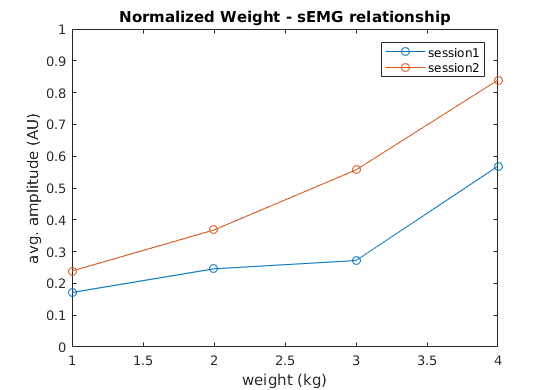
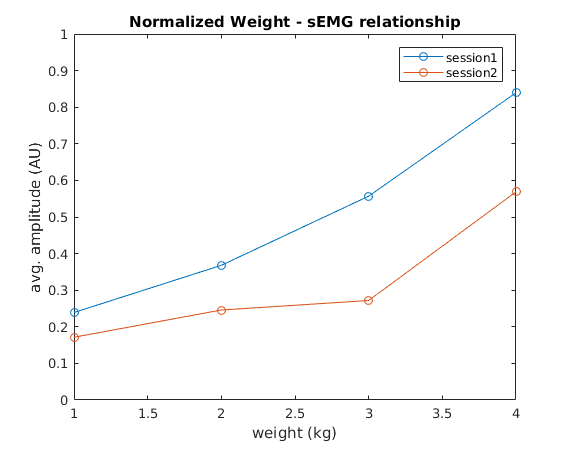
pic

diff --git a/ADC_NI_DAQ/Signal plotting example/plot_reg_multi_test.m b/ADC_NI_DAQ/Signal plotting example/plot_reg_multi_test.m
@@ -10,6 +10,7 @@ filenames = {'1kg_2.lvm', '2kg_2.lvm', '3kg_2.lvm', '4kg_2.lvm'};
 MVC = lvmread(strcat(file_path, 'MVC.lvm'));
 MVC(:, 2) = MVC(:, 2) - mean(MVC(:, 2));
 MVC_mean_amp = mean(abs(MVC(:, 2)));
+disp(MVC_mean_amp);
 
 norm_mean_amps1 = zeros(length(filenames), 1);
 for i =  1:length(filenames)
@@ -44,6 +45,7 @@ filenames = {'1kg.lvm', '2kg.lvm', '3kg_2.lvm', '4kg.lvm'};
 MVC = lvmread(strcat(file_path, 'MVC.lvm'));
 MVC(:, 2) = MVC(:, 2) - mean(MVC(:, 2));
 MVC_mean_amp = mean(abs(MVC(:, 2)));
+disp(MVC_mean_amp);
 
 norm_mean_amps2 = zeros(length(filenames), 1);
 for i =  1:length(filenames)
@@ -67,13 +69,14 @@ legend('session1', 'session2');
 
 %% Find weight constant
 figure;
-plot(norm_mean_amps2./norm_mean_amps1, '-o');
+ratios = norm_mean_amps2./norm_mean_amps1;
+plot(ratios, '-o');
 ylim([0 1]);
 xlim([1 length(filenames)]);
 title("Normalized Ratio accross tests");
 xlabel('weight (kg)');
 ylabel('ratio (AU)');
-weight = mean(norm_mean_amps2./norm_mean_amps1);
+r = mean(ratios);
 norm_mean_amps1 = norm_mean_amps1 * weight;
 
 %% Plot adjusted compare

diff --git a/ADC_NI_DAQ/Signal plotting example/plot_compare_MVC.m b/ADC_NI_DAQ/Signal plotting example/plot_compare_MVC.m
@@ -1,7 +1,8 @@
 clear; close all;
 
-file_path = '/home/dymnz/Documents/sEMG/Signals/2017_8_9/';
-filenames = {'1kg.lvm', '2kg.lvm', '3kg_2.lvm', '4kg.lvm'};
+%% Part 1
+file_path = '/home/dymnz/Documents/sEMG/Signals/2017_8_8/';
+filenames = {'1kg_2.lvm', '2kg_2.lvm', '3kg_2.lvm', '4kg_2.lvm'};
 
 MVC = lvmread(strcat(file_path, 'MVC.lvm'));
 MVC(:, 2) = MVC(:, 2) - mean(MVC(:, 2));
@@ -32,12 +33,12 @@ title("Normalized Weight - sEMG relationship");
 xlabel('weight (kg)');
 ylabel('avg. amplitude (AU)');
 
-
-
 hold on;
 
-file_path = '/home/dymnz/Documents/sEMG/Signals/2017_8_8/';
-filenames = {'1kg_2.lvm', '2kg_2.lvm', '3kg_2.lvm', '4kg_2.lvm'};
+%% Part 2
+file_path = '/home/dymnz/Documents/sEMG/Signals/2017_8_9/';
+filenames = {'1kg.lvm', '2kg.lvm', '3kg.lvm', '4kg.lvm'};
+
 
 MVC = lvmread(strcat(file_path, 'MVC.lvm'));
 MVC(:, 2) = MVC(:, 2) - mean(MVC(:, 2));
